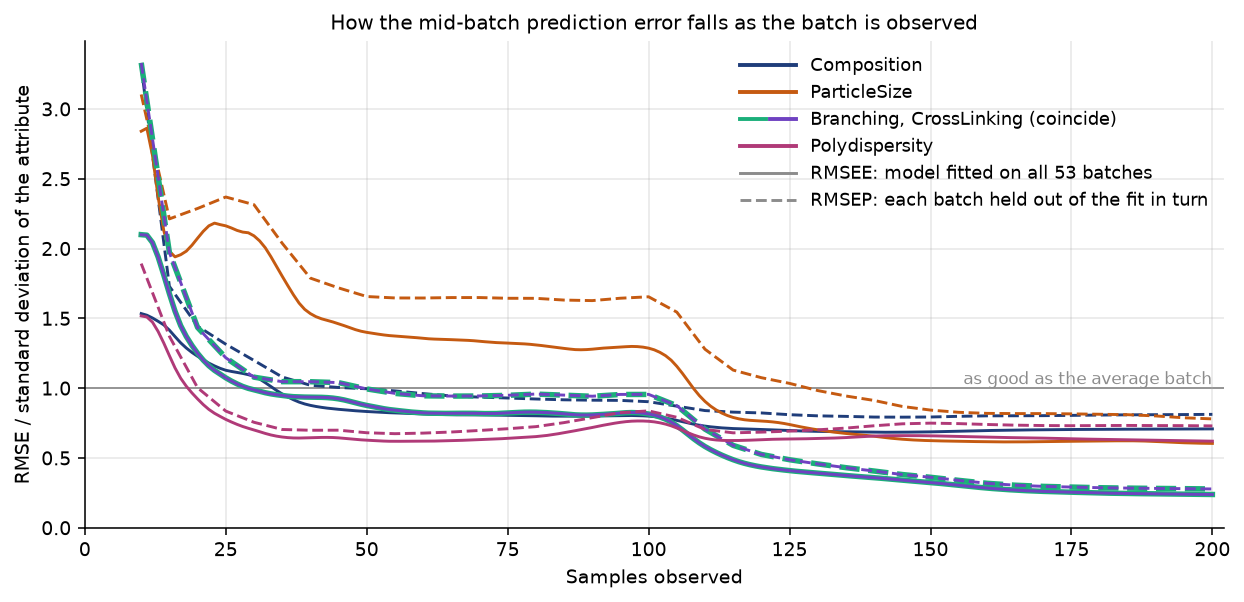
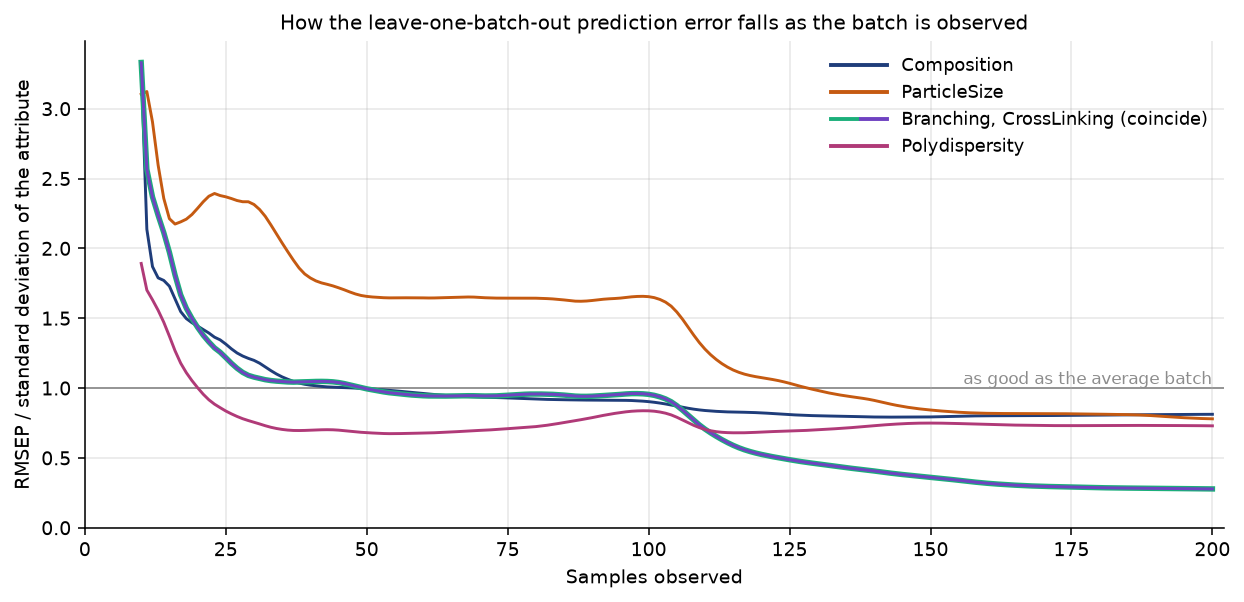
SBR error figure shows leave-one-batch-out RMSEP only; DuPont member dots readable on the bars
The RMSEE curves are dropped from the mid-batch prediction figure, so the
four attribute lines are solid and the batch-4 band is two RMSEP at each
sample. The eight member dots on the group-contribution bars now have a
white face and a dark edge, so they read on the bars and on the background.

Claude-Session: https://claude.ai/code/session_01LXthGpHLQFfGubBiKFtGAE

diff --git a/batch/batch-case-sbr-figures.py b/batch/batch-case-sbr-figures.py
@@ -203,23 +203,16 @@ def main(out_dir: pathlib.Path, data_url: str | None) -> None:
     save(fig, out_dir, "batch-case-sbr-departure")
 
     # -- On-line prediction: how the error of the evolving quality prediction falls as the batch is observed.
-    # RMSEE from the 53-batch model on its own training batches (solid), RMSEP with each batch held out of the
-    # fit in turn (dashed, every fifth sample to keep the 53 refits near a minute), both relative to the
+    # Leave-one-batch-out RMSEP: each batch held out of the fit in turn and traced as it runs, relative to the
     # attribute's standard deviation over the 53 batches: a ratio of 1 is the error of predicting the average.
     sd = quality.std(ddof=1)
-    rmsee = model.online_rmse(trajectories, quality)
-    loo_samples = list(range(10, model.n_timesteps_ + 1, 5))
-    rmsep = leave_one_batch_out_rmse(trajectories, quality, loo_samples)
+    rmsep = leave_one_batch_out_rmse(trajectories, quality, list(range(1, model.n_timesteps_ + 1)))
     for attribute in ("ParticleSize", "Composition"):
-        print(
-            f"{attribute}: RMSEE / sd after "
-            + ", ".join(f"{k} samples {rmsee.loc[k, attribute] / sd[attribute]:.2f}" for k in REPORT_SAMPLES)
-        )
         print(
             f"{attribute}: leave-one-batch-out RMSEP / sd after "
             + ", ".join(f"{k} samples {rmsep.loc[k, attribute] / sd[attribute]:.2f}" for k in REPORT_SAMPLES)
         )
-    rmsee_ratio, rmsep_ratio = (rmsee / sd).loc[10:], rmsep / sd
+    rmsep_ratio = (rmsep / sd).loc[10:]
     fig, ax = plt.subplots(figsize=(9.0, 4.4))
     ax.axhline(1.0, color=GREY, lw=1, zorder=1)
     ax.text(0.99, 1.0, "as good as the average batch", transform=ax.get_yaxis_transform(), ha="right", va="bottom",
@@ -227,32 +220,17 @@ def main(out_dir: pathlib.Path, data_url: str | None) -> None:
     for attribute, colour in ATTRIBUTE_COLOURS.items():
         # Branching and CrossLinking coincide; the wider line underneath lets both colours show.
         lw = 2.8 if attribute == "Branching" else 1.5
-        ax.plot(rmsee_ratio.index, rmsee_ratio[attribute].to_numpy(), color=colour, lw=lw, zorder=3)
-        ax.plot(rmsep_ratio.index, rmsep_ratio[attribute].to_numpy(), color=colour, lw=lw, ls="--", zorder=3)
+        ax.plot(rmsep_ratio.index, rmsep_ratio[attribute].to_numpy(), color=colour, lw=lw, zorder=3)
     swatch = {attribute: Line2D([], [], color=colour, lw=2) for attribute, colour in ATTRIBUTE_COLOURS.items()}
-    handles = [
-        swatch["Composition"],
-        swatch["ParticleSize"],
-        (swatch["Branching"], swatch["CrossLinking"]),
-        swatch["Polydispersity"],
-        Line2D([], [], color=GREY, lw=1.5),
-        Line2D([], [], color=GREY, lw=1.5, ls="--"),
-    ]
-    labels = [
-        "Composition",
-        "ParticleSize",
-        "Branching, CrossLinking (coincide)",
-        "Polydispersity",
-        "RMSEE: model fitted on all 53 batches",
-        "RMSEP: each batch held out of the fit in turn",
-    ]
+    handles = [swatch["Composition"], swatch["ParticleSize"], (swatch["Branching"], swatch["CrossLinking"]), swatch["Polydispersity"]]
+    labels = ["Composition", "ParticleSize", "Branching, CrossLinking (coincide)", "Polydispersity"]
     ax.legend(handles, labels, loc="upper right", handler_map={tuple: HandlerTuple(ndivide=None, pad=0.2)},
               handlelength=3.2)
     ax.set_xlim(0, model.n_timesteps_ + 2)
     ax.set_ylim(0, None)
     ax.set_xlabel("Samples observed")
-    ax.set_ylabel("RMSE / standard deviation of the attribute")
-    ax.set_title("How the mid-batch prediction error falls as the batch is observed")
+    ax.set_ylabel("RMSEP / standard deviation of the attribute")
+    ax.set_title("How the leave-one-batch-out prediction error falls as the batch is observed")
     fig.tight_layout()
     save(fig, out_dir, "batch-case-sbr-online-rmse")
 
@@ -271,9 +249,9 @@ def main(out_dir: pathlib.Path, data_url: str | None) -> None:
     fig, axes = plt.subplots(1, 2, figsize=(9.0, 3.9))
     for ax, attribute in zip(axes, ["ParticleSize", second], strict=True):
         y_hat = trace.y_hat[attribute].loc[FIRST_SAMPLE_SHOWN:]
-        half_width = 2 * rmsee[attribute].loc[FIRST_SAMPLE_SHOWN:]
+        half_width = 2 * rmsep[attribute].loc[FIRST_SAMPLE_SHOWN:]
         ax.fill_between(y_hat.index, (y_hat - half_width).to_numpy(), (y_hat + half_width).to_numpy(), color=BAND,
-                        lw=0, zorder=1, label="$\\pm 2$ RMSEE after this many samples")
+                        lw=0, zorder=1, label="$\\pm 2$ RMSEP after this many samples")
         ax.plot(y_hat.index, y_hat.to_numpy(), color=DARK_BLUE, lw=1.6, zorder=3, label="predicted from the samples so far")
         ax.axhline(final[attribute], color=GREY, lw=1, ls="--", zorder=2)
         ax.axhline(measured[attribute], color="black", lw=1, zorder=2)

diff --git a/batch/batch-case-dupont-figures.py b/batch/batch-case-dupont-figures.py
@@ -40,7 +40,7 @@ SECOND_CLUSTER = [37, 39, 43, 44, 45, 46, 47, 48]
 CLUSTER_TAGS = ["TempC-1", "Press-3", "Press-2"]  # the three largest |t2| + |t3| contributions of the cluster
 EARLY_WINDOW = 25  # samples 0 to 25 carry 66% of the cluster's t2 and 90% of its t3 contribution
 RAW_WINDOW = 30
-MEMBER_DOT = "0.35"  # darker than the axis grey, so the eight members read against the bars
+MEMBER_DOT = "0.25"  # edge colour of the member markers: white face and dark edge read on the bars and on the background
 POOR_QUALITY_NOT_VISIBLE = [38, 40, 41, 42]
 
 
@@ -92,7 +92,7 @@ def main(out_dir: pathlib.Path) -> None:
         axes[0].bar(positions + offset, per_tag[component].to_numpy(), width=width, color=colour, label=f"$t_{component}$", zorder=2)
         members = [per_component[component].loc[b].groupby(level="tag", sort=False).sum().to_numpy() for b in SECOND_CLUSTER]
         for row in members:
-            axes[0].scatter(positions + offset, row, s=8, color=MEMBER_DOT, alpha=0.9, zorder=3, linewidths=0)
+            axes[0].scatter(positions + offset, row, s=16, facecolor="white", edgecolor=MEMBER_DOT, linewidth=0.8, zorder=3)
     axes[0].axhline(0, color=GREY, lw=0.8)
     axes[0].set_xticks(positions, [str(tag) for tag in per_tag.index], rotation=30, ha="right")
     axes[0].set_ylabel("Contribution to the score, summed per tag")
